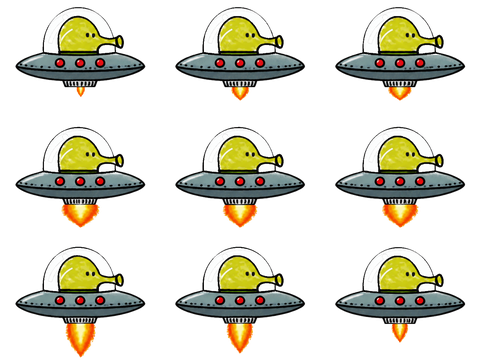
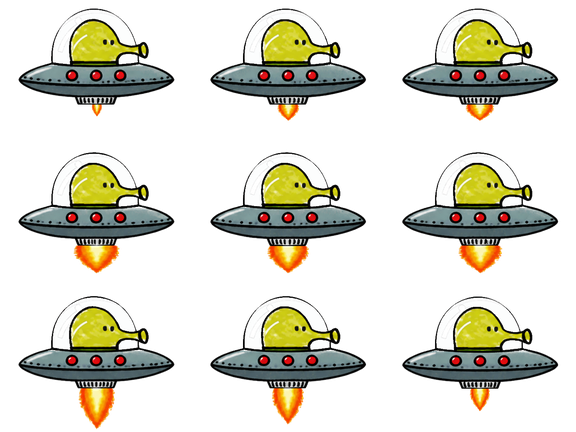
Fix flying-vs-falling UFO size mismatch: the game's left/right movement code resets the player scale to +/-1 during any bonus ride, so the flying UFO (scale 1.2) was being shrunk to ~131px while the falling saucer stayed ~157px. Make the flight sheet NATIVE-sized like the rocket: re-shrink to 576x43

diff --git a/classic-offline.html b/classic-offline.html
@@ -24,8 +24,8 @@
     <script src="js/perf.js"></script>
     <script src="js/lib/phaser.min.js"></script>
     <!-- OFFLINE build: assets inlined as data-URIs so it runs straight from file:// (no server) -->
-    <script src="js/offline-assets.js?v=191"></script>
-    <script src="js/offline-shim.js?v=191"></script>
+    <script src="js/offline-assets.js?v=192"></script>
+    <script src="js/offline-shim.js?v=192"></script>
   </head>
   <body>
     <div id="gameParent"></div>
@@ -52,8 +52,8 @@
     </script>
     <input id="highscore" type="text" />
     <script src="js/fulltilt.min.js"></script>
-    <script src="js/classic-theme.js?v=191"></script>
-    <script src="js/classic.themed.js?v=191"></script>
-    <script src="js/doodle.js?v=191"></script>
+    <script src="js/classic-theme.js?v=192"></script>
+    <script src="js/classic.themed.js?v=192"></script>
+    <script src="js/doodle.js?v=192"></script>
   </body>
 </html>

diff --git a/index.html b/index.html
@@ -134,9 +134,9 @@
     <!-- Leaderboard API base, same-origin under /djapi (the server app is routed to djweb.../djapi). "" = local-only. -->
     <script>window.DJ_API_URL = "https://djapi.jeremiah.sg";</script>
     <script src="js/fulltilt.min.js"></script>
-    <script src="js/classic-theme.js?v=191"></script>
-    <script src="js/classic.themed.js?v=191"></script>
-    <script src="js/mp.js?v=191"></script>
-    <script src="js/doodle.js?v=191"></script>
+    <script src="js/classic-theme.js?v=192"></script>
+    <script src="js/classic.themed.js?v=192"></script>
+    <script src="js/mp.js?v=192"></script>
+    <script src="js/doodle.js?v=192"></script>
   </body>
 </html>

diff --git a/js/classic-theme.js b/js/classic-theme.js
@@ -157,8 +157,8 @@ Doodle.loadThemeAssets = function (game) {
     game.load.image("nose_default", "static/images/PlayerSheets/nose_default.png");
     game.load.image("menuOverlay", "static/images/menu_overlay.png");
     game.load.image("menuTitle", "static/images/menu_title.png");
-    game.load.spritesheet("ufofly_space", "static/images/Playerfull/space/ufo-doodler.png?v=191", 160, 120, 9); // doodler-in-UFO ride (space, 480x360 -> 160x120 x9). ?v busts stale image cache
-    game.load.image("ufopick_space", "static/images/Playerfull/space/ufo-power.png?v=191"); // empty saucer pickup (space). ?v busts stale image cache
+    game.load.spritesheet("ufofly_space", "static/images/Playerfull/space/ufo-doodler.png?v=192", 192, 144, 9); // doodler-in-UFO ride (space, 480x360 -> 160x120 x9). ?v busts stale image cache
+    game.load.image("ufopick_space", "static/images/Playerfull/space/ufo-power.png?v=192"); // empty saucer pickup (space). ?v busts stale image cache
     Doodle.THEMES.forEach(function (th) {
       if (th === "default") return;
       var d = Doodle.THEME_DATA[th];
@@ -478,7 +478,7 @@ Doodle.activateUfo = function (a, b, gs) {
     if (Doodle._sheetOK(g, flyKey, 9)) {                     // animated doodler-in-UFO
       a.loadTexture(flyKey); a.frame = 6;
       a.anchor.setTo(0.5, 0.46);
-      a.scale.setTo(1.2 * face, 1.2);                        // 160px frame -> ~157px disc in flight
+      a.scale.setTo(face, 1);                                // NATIVE: disc is 157px at scale 1 -> survives the game's movement scale-reset, matches the falling/pickup saucer
       a.animations.add("uf_takeoff", [6, 7, 8], 10, true);   // bottom row = full flame (taking off)
       a.animations.add("uf_fast", [3, 4, 5], 10, true);      // middle row = medium flame (climbing fast)
       a.animations.add("uf_slow", [0, 1, 2], 10, true);      // top row = no flame (slowing down)

diff --git a/sw.js b/sw.js
@@ -1,7 +1,7 @@
 // Service worker: makes the online build an installable, offline-capable PWA.
 // NETWORK-FIRST for GET requests: when online you always get the latest (no stale-asset
 // problems after a deploy); falls back to cache only when offline. Bump CACHE on each release.
-var CACHE = "dj-v191";
+var CACHE = "dj-v192";
 
 self.addEventListener("install", function (e) { self.skipWaiting(); });
 